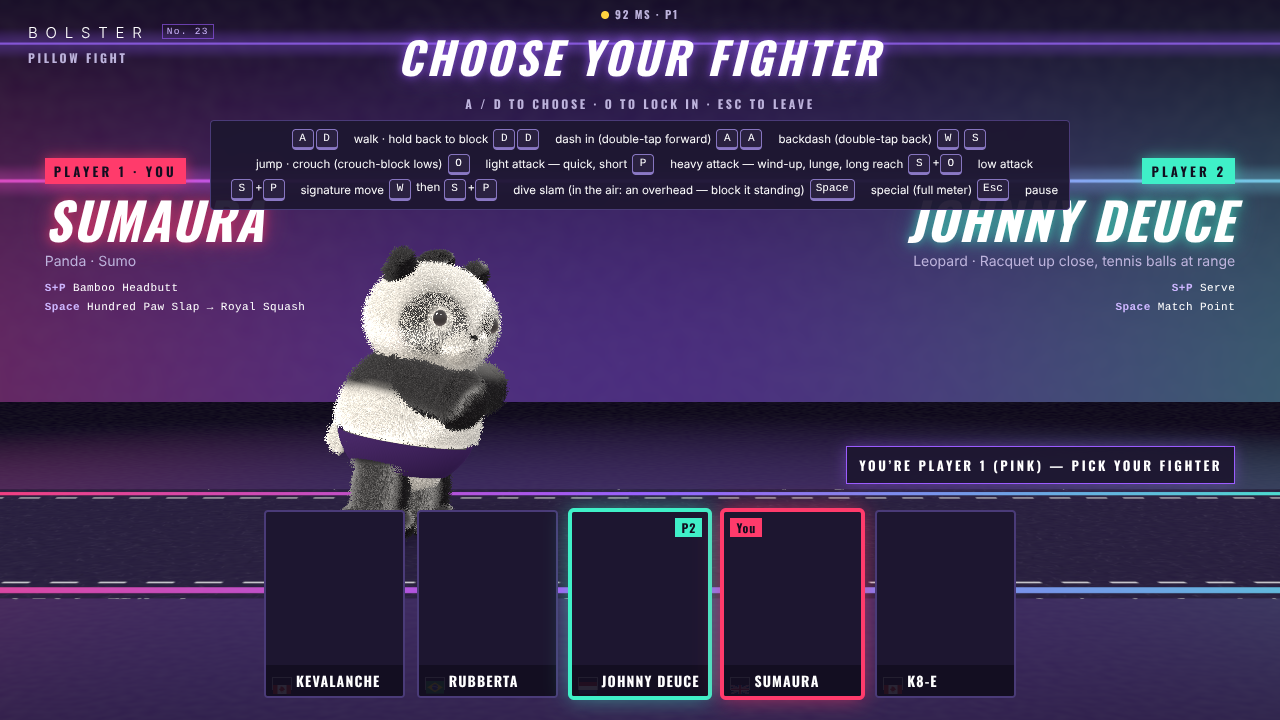
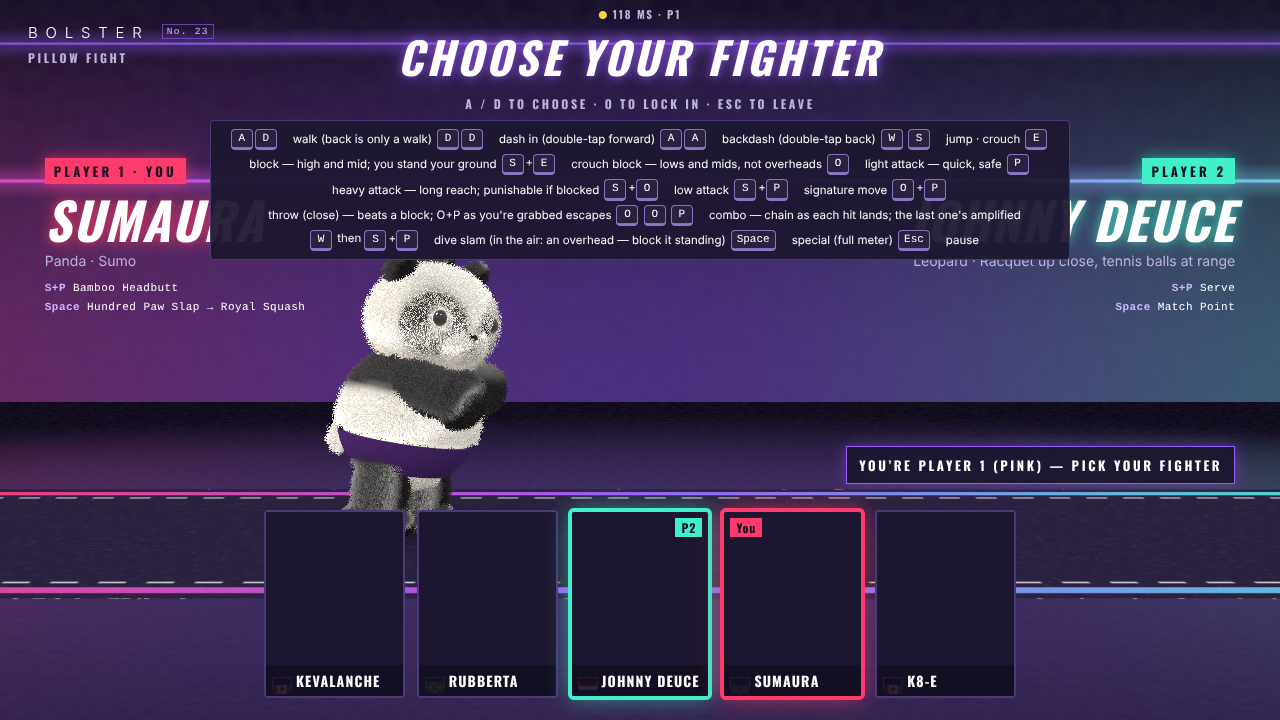
Bolster combat: AI guard reads lows/overheads; AI guard and tech tests; net harness flushes the last confirmed tick; README combat section
Claude-Session: https://claude.ai/code/session_014MNX69veFjs6GswSr9mgyb

Changed region(s): [[0.1562, 0.1833, 0.8438, 0.3667], [0.4688, 0.0, 0.5312, 0.0306]]

diff --git a/bolster/_source/src/ai/cpu.js b/bolster/_source/src/ai/cpu.js
@@ -75,6 +75,16 @@ export class CPU {
 
   chance(p) { return this.rng.int(10000) < p * 10000; }
 
+  /* the guard it holds on a guess: crouching about as often as they've been
+     going low (Hard reads that well, Easy hardly at all); never crouched
+     against someone in the air (an overhead's coming) */
+  guard(o) {
+    if (o.air) return BLOCK;
+    const r = Math.min(1, this.L.read);
+    const p = 0.25 * (1 - r) + Math.min(0.9, (this.lows ?? 0.25) * 1.15) * r;
+    return BLOCK | (this.chance(p) ? DOWN : 0);
+  }
+
   _observe(st) {
     const o = st.f[1 - this.side];
     this.seen.push({
@@ -85,6 +95,11 @@ export class CPU {
     // how much they've been swinging lately (attack starts, decaying over ~1.5 s)
     const s0 = this.seen[0];
     this.heat = (this.heat || 0) * 0.985 + (s0.act === 'attack' && s0.t === 1 ? 1 : 0);
+    // and what with: lows vs everything else (its guard leans the way they do)
+    if (s0.act === 'attack' && s0.t === 1) {
+      const m = FIGHTERS[s0.id].moves[s0.mv];
+      this.lows = (this.lows ?? 0.25) * 0.85 + (m.low ? 0.15 : 0);
+    }
     return s0;
   }
 
@@ -229,7 +244,7 @@ export class CPU {
         if (left > hs + 1 && dist < rh) press = HEAVY;
         else if (left > ls + 1 && dist < rl + 300) press = LIGHT;
         else if (rs && dist < rs && !shooter && left > M.signature.hits[0].from) { hold = DOWN; press = HEAVY; }
-        else hold = BLOCK;
+        else hold = this.guard(o);
       }
       // they threw from range: in on the recovery
       else if (theyThrew && dist > rh && this.chance(this.L.punish + 0.3)) {
@@ -237,7 +252,7 @@ export class CPU {
       } else if (dist < reach(FIGHTERS[o.id].moves.heavy) + 300 && !o.air && o.act !== 'hitstun' && o.act !== 'down' && this.chance(this.L.block * 0.6 + Math.min(0.4, this.heat * 0.06) * this.L.read)) {
         // they're coming in (or swinging) within their heavy's reach: guard
         // on the guess (nobody reacts to a jab), mostly standing
-        hold = BLOCK | (this.chance(0.25) ? DOWN : 0);
+        hold = this.guard(o);
       } else if (dist <= throwR && !o.air && (o.act === 'guard' || o.act === 'idle' || o.act === 'crouch') && this.chance(this.L.throwP)) {
         press = LIGHT | HEAVY;                               // they're turtling: throw them
       } else if (dist <= poke && this.chance(this.L.aggro + 0.2)) {
@@ -263,7 +278,7 @@ export class CPU {
         press = this.chance(0.5) ? LIGHT : HEAVY;          // swinging at air
       } else if (dist < reach(FIGHTERS[o.id].moves.light) + 700 && this.chance(this.L.block * 0.7)) {
         // inside their poke range: guard (a guess at high or low)
-        hold = BLOCK | (this.chance(0.35) ? DOWN : 0);
+        hold = this.guard(o);
       } else {
         // footsies: drift toward the range its pokes like (a shooter
         // sometimes hangs back to zone; everyone comes in from far off)
@@ -279,8 +294,8 @@ export class CPU {
         if (dist > want + 400) {
           if (dist > want + 2200 && this.chance(this.L.approach * this.L.dash)) dash = true;
           else hold = this.chance(this.L.approach) ? fwd : 0;
-        } else if (dist < want - 900 && this.chance(0.5)) hold = inTheirReach ? BLOCK : back;
-        else hold = this.chance(0.3) ? (inTheirReach ? BLOCK : back) : 0;
+        } else if (dist < want - 900 && this.chance(0.5)) hold = inTheirReach ? this.guard(o) : back;
+        else hold = this.chance(0.3) ? (inTheirReach ? this.guard(o) : back) : 0;
       }
     }
     if (dash) {

diff --git a/bolster/_source/README.md b/bolster/_source/README.md
@@ -23,6 +23,8 @@ node tools/balance.mjs normal 50 # seeded CPU-vs-CPU win rates, every pairing, i
 node tools/framedata.mjs         # frame data for every fighter → docs/FRAMES.md
 node tools/polish-shots.mjs [--html F] [--out D] [--q '&boxes'] [scene …]
                                  # shoulder sheets and light/heavy strips, any build
+node tools/combat-shots.mjs [block|throws|counter|combo|controls|ko|ko-final]
+                                 # the combat pass's evidence → shots/combat/
 ```
 
 Open `final.html`, or deep-link straight into a fight:
@@ -30,6 +32,72 @@ Open `final.html`, or deep-link straight into a fight:
 to the computer too; `seed=N` fixes the match seed; `toques=1`; `webgl` forces
 the WebGL 2 path; `hold` stops the free-running loop for scripted stepping;
 `boxes` draws the sim's hurt, limb, hit and shot boxes over the picture).
+
+## Combat pass (bolster-combat)
+
+The owner's note: *"there are few advantages to staying away, I just press
+forward and keep punching."* This pass makes spacing, defence and timing
+matter. Full rules and every move's frame data: `docs/FRAMES.md`.
+
+- **E blocks.** Holding back only walks away now. E standing blocks high
+  and mid, S+E low and mid; overheads (jump-ins, the dive slam, Sky Neck,
+  the Royal Squash) need a standing block. Guarding holds you in place
+  (act `guard`: no walk, jump or dash). A blocked hit pushes both apart
+  (blocker 1.5× the push, attacker ½, all of it in the corner). Only
+  signatures, specials and shots chip. The input mask gains an eighth bit
+  (`BLOCK = 128`); masks 0–127 mean what they did, so replays and the
+  online protocol (which sends masks as numbers) are unchanged in shape.
+- **Frame advantage:** lights −1 on block (safe), heavies −9 to −11 and
+  every signature, the Bamboo Headbutt now included, −10 or worse
+  (punishable: the blocker is out first and a light or a throw gets in);
+  a blocked dive slam gets the whole 30-tick landing lag. A whiffed heavy
+  adds 6 ticks.
+- **Throw:** O+P within 2 real ticks of each other (hit-pause doesn't
+  stretch it), close (touching + 520); beats a blocker, can't grab anyone
+  in the air, knocked down or in hit/block stun. **Tech** with O+P in the
+  first 12 ticks of the hold. Animations: Kevalanche clinch-and-shove,
+  Rubberta tentacle wrap-and-fling, Johnny racquet hook, Sumaura push-out,
+  K8-E neck swing (`render/puppets.js`, moves `throw` / `throwHold`).
+- **Counter-hit:** a hit in the other one's startup: 125%, +8 hitstun, a
+  COUNTER pop.
+- **Anti-mash:** three lights in a string lock lights out for 26 ticks; the
+  same light landing again within 2 s does 85 / 70 / 55%.
+- **Chains and the amplified finisher:** on contact, inside 9 ticks of the
+  last active frame: light → light / heavy / S+P / special, low → the same,
+  heavy → S+P or the special on a full meter. A heavy / signature / special
+  that finishes a true combo is amplified (132% after one link, 144% after
+  two, a hard knockdown, +90 / +130 meter, a bigger spark): the HUD shows
+  `N HIT COMBO` on the attacker's side and `AMPLIFIED!`. Hits after the
+  third scale down 15% each. Every fighter's O → O → P is a true combo on
+  every opponent (tested); bread-and-butters are in `docs/FRAMES.md`.
+- **The slow-motion K.O.** (every round-ending K.O.; not a time-out): a
+  6-tick hit-freeze with a white flash and a stuffing burst, then the loser
+  launched up and back at 25% speed (90 ticks; 120 and higher for the
+  match-winning K.O.), the time scale ramping back as he comes down, one
+  bounce with a squash and a puff, flat, then the K.O. banner. It's a phase
+  of the sim (`koStep`): a fixed tick count, inputs ignored, the launch in
+  hundredths of a unit advanced by the scheduled scale `st.ks` each tick —
+  not a render trick — so online peers see the same frames and a rollback
+  across the K.O. resimulates it exactly. The renderer only reads it: the
+  camera eases in and tracks the plush, the soft bodies and particles run
+  at `st.ks`, the tumble is the sim's `kr`. A Fluffatality bursts at the
+  top of the arc (`koapex`). `kobanner` is a flow event (fires once
+  confirmed online).
+- **AI:** blocks with E (Easy rarely, Hard well), guards on a guess when
+  someone's in range (more against someone who never stops swinging),
+  leans its guard low against a low-heavy opponent and never crouches under
+  an overhead, punishes unsafe moves it blocked (a light, sometimes a
+  throw), throws turtles, techs throws (Easy 10%, Hard 75%), chains O → O
+  → P on contact (Hard confirms the hit first).
+- **Bug fixed on the way:** a projectile carried no hit-pause, so the first
+  shot to connect left `st.pause` NaN for the rest of the match — no more
+  hit-pause, and buffered presses never expired (which is how mashing O and
+  P apart could throw). Every shot now has its own pause.
+
+`test/combat.test.mjs` covers all of it, including the **anti-mash test**:
+a bot that walks forward mashing lights and heavies (`src/ai/masher.js`)
+loses at least 70% of seeded matches to the Normal CPU (it lost 18 of 20 and 34 of 40 in
+the wider run).
 
 ## Online (stage 2: bolster-online)
 
@@ -150,7 +218,7 @@ src/
                     Integers only (1000 = one world unit), the PRNG in the
                     state, no clock, no renderer. clone() / hash() for rollback.
   sim/rng.js        mulberry32 on a uint32 in the state
-  sim/input.js      the 7-bit input mask (← → ↑ ↓ O P Space)
+  sim/input.js      the 8-bit input mask (← → ↑ ↓ O P Space E)
   fighters/         per-fighter numbers: walk/jump, push and hurt boxes, every
                     move's hits (window, box, damage, level, stun, push),
                     motion, projectiles, grab; names, flags, lines
@@ -194,10 +262,11 @@ the input mask per tick, `clone`, `stepInPlace`, `hash` — see *Online* above.
 
 Rules: double-tap forward dashes in, double-tap back backdashes (a tap is
 a press let go within 12 ticks; a held walk that stops and starts again is
-not one); holding away blocks; standing blocks high and mid, crouching blocks
-low and mid; jumping attacks and Sky Neck are high (overheads); the Abraço is
-unblockable. Light (O) is quick, short and weak with a fast recovery, and cancels into
-heavy, the signature or the special on contact. Heavy (P) winds up (13–15
+not one); E blocks (holding back only walks; see *Combat pass*); standing
+blocks high and mid, crouching blocks low and mid; jumping attacks and Sky
+Neck are high (overheads); the Abraço is unblockable. Light (O) is quick,
+short and weak with a fast recovery, and chains into another light, heavy,
+the signature or the special on contact. Heavy (P) winds up (13–15
 ticks: he rears back and loads it), then lunges — the body steps in and the
 limb goes well past the jab — for more damage and a long recovery; while
 the limb is out it has its own hurt box at its height, so a whiffed heavy
@@ -210,7 +279,8 @@ more. Match Point's volley is a special and may have five out. Frame data
 for every move: `docs/FRAMES.md`. Meter fills from hits landed (90% of damage) and taken (35%), a
 little on block, none from a special's own hits; tuned for about one full
 meter a round. Combos scale down (a special much less). 99-second rounds, best
-of three; a draw on time gives both a round.
+of three; a draw on time gives both a round. (Combo scaling, chains and the
+amplified finisher are the combat pass's: see above.)
 
 ### The plush (cosmetic only)
 
